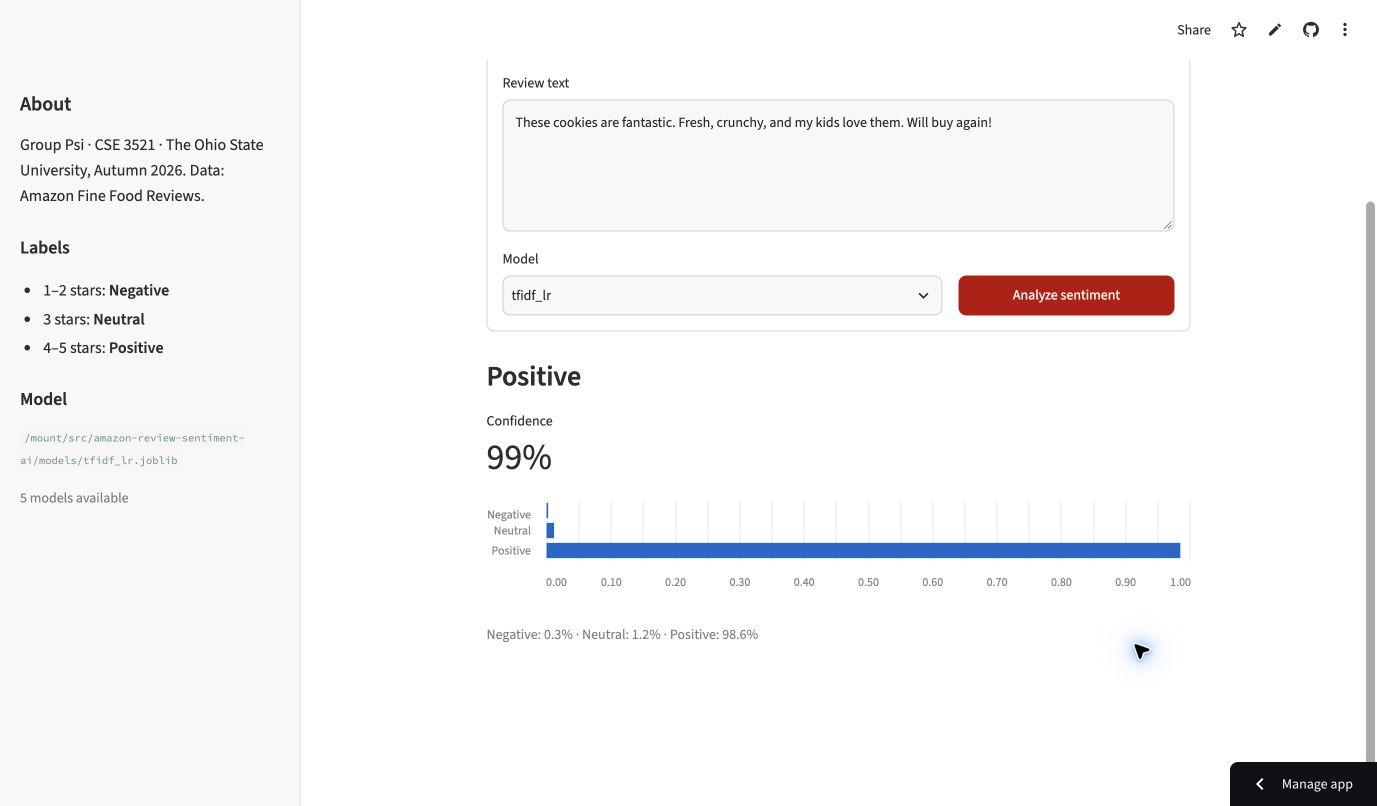
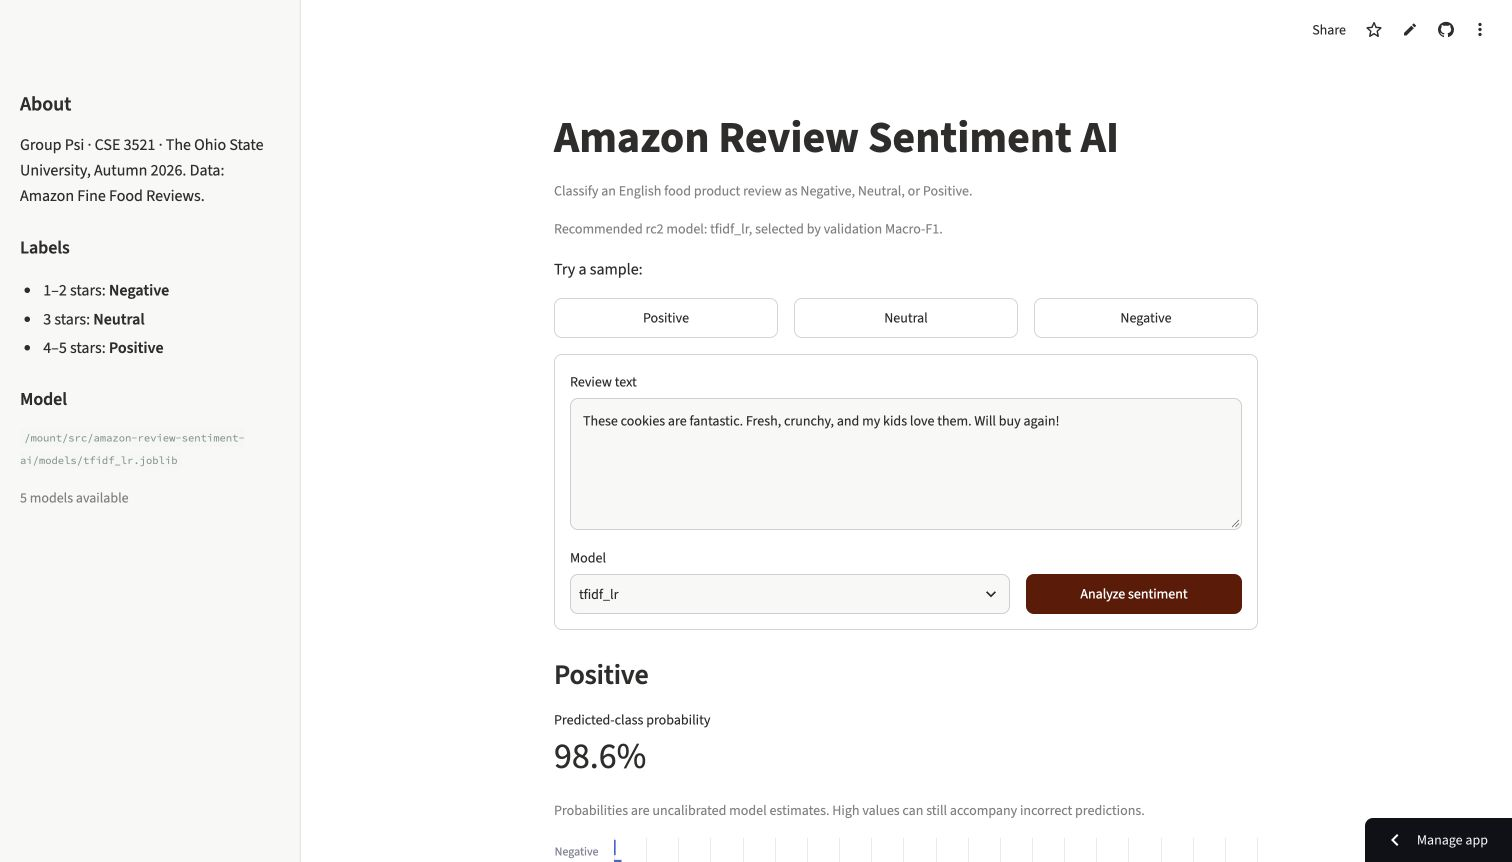
docs: refresh main app screenshots and verification status

diff --git a/docs/M3_RESULTS.md b/docs/M3_RESULTS.md
@@ -1,6 +1,7 @@
 # M3 report and demonstration — canonical release v0.2.0-rc2
 
-Updated November 23, 2026. This replaces the November 15 M3 experimental results
+Canonical results updated November 23, 2026; main deployment verification updated
+November 24. This replaces the November 15 M3 experimental results
 for report/demo parity. It is not confirmation of final PDF submission. Hosted
 main and staging validation is recorded at the end of this document.
 All current tables, timings, loss records and five model artifacts below belong
@@ -188,6 +189,35 @@ cleaned Text; Summary and rating are not features.
 
 ## Hosted main status
 
+**Latest verification: November 24, 2026 (EST)** after
+[PR #23](https://github.com/its-spark-dev/amazon-review-sentiment-ai/pull/23)
+merged into main at `9a29272`. The app was fully rebooted: automatic code refresh
+had shown the new UI while retaining the previous zero-feature inference
+behavior; the reboot resolved that observed mismatch. No model tag, weights,
+training settings or reported test results changed.
+
+| Hosted check | November 24 result |
+| --- | --- |
+| New-session default | `tfidf_lr`, with the rc2 recommendation visible |
+| Probability display | Predicted-class probability, one decimal, explicit uncalibrated-estimate explanation |
+| Positive/negative probes | 10 passed: two synthetic reviews per model; labels and displayed probabilities match canonical local rc2 |
+| Zero-feature input | 15 passed: emoji-only, Korean and unseen-token probes for each of five models; no label/probability displayed |
+| Recovery after rejection | Five passed: a recognized review produces a result again for each model |
+| Existing validation | Empty and HTML/whitespace-only input rejection passed |
+
+The check covered model switching across all five pipelines. The vocabulary
+guard does not establish language detection, out-of-domain detection or calibrated
+uncertainty. These are serving checks, not new held-out performance estimates.
+The underlying artifacts remain `v0.2.0-rc2`, served on Python 3.11.18.
+
+Current public screenshots: [TF-IDF LR prediction](assets/demo.jpg) and
+[zero-feature input guard](assets/input-guard.jpg). The prediction example shows
+98.6% Positive probability, with the explicit reliability limitation. The detailed
+synthetic check log remains local at `outputs/m3/main-serving-fix/validation.json`;
+it is not required to run the app. Main's post-merge CI passed all six jobs.
+
+### Initial main deployment (November 23)
+
 The [main app](https://amazon-sentiment-ai.streamlit.app/) was deployed from
 `main` after [PR #19](https://github.com/its-spark-dev/amazon-review-sentiment-ai/pull/19)
 passed all six CI checks and merged at `216720c`. Its runtime is Python 3.11.18,
@@ -200,7 +230,8 @@ produced the expected positive/negative labels and displayed probabilities
 matching staging and the canonical local rc2 models. HTML/plain-text parity,
 markup-only rejection, and empty-input rejection also passed. A screenshot of
 the main app's TF-IDF LR positive prediction and the verification log were saved
-locally; neither is committed. These synthetic checks validate deployment and
+locally at that time; the current public captures above supersede that screenshot.
+These synthetic checks validate deployment and
 inference behavior, not new held-out performance results or retraining.
 
 ## Hosted staging status

diff --git a/README.md b/README.md
@@ -25,9 +25,20 @@ This is an educational ML demonstration, with the evaluation limits documented b
 
 ![Live main app showing a TF-IDF LR prediction and three-class probabilities](docs/assets/demo.jpg)
 
-*Actual main deployment, captured November 23, 2026. The model selector serves
-five rc2 pipelines. The capture predates the input/probability UI update;
-example probabilities describe this input, not test accuracy.*
+*Actual main deployment, captured November 24, 2026 after PR #23 and a full
+reboot. TF-IDF LR is the initial selection; probabilities are explicitly labeled
+as uncalibrated estimates. This example's 98.6% is not test accuracy.*
+
+<details>
+<summary>Input guard example</summary>
+
+![Main app withholding a prediction for an emoji-only input with no recognized vocabulary](docs/assets/input-guard.jpg)
+
+*The selected model recognizes no vocabulary features, so the app shows an
+explanation and withholds the label and probabilities. This is a vocabulary
+check, not language or out-of-domain detection.*
+
+</details>
 
 ## What is implemented
 
@@ -176,11 +187,22 @@ work, including the separately reviewed [error-analysis PR #21](https://github.c
 | [Main demo](https://amazon-sentiment-ai.streamlit.app/) | `main` | 3.11.18 | `v0.2.0-rc2` |
 | [Staging](https://amazon-sentiment-ai-preview.streamlit.app/) | `staging` | 3.14 | `v0.2.0-rc2` |
 
-Both deployments were rebooted and passed 14 synthetic hosted checks each on
-November 23, 2026: model switching, positive/negative predictions, preprocessing
-parity and invalid-input handling. These dated checks are not an uptime guarantee.
-Main predictions matched the canonical local models. Configure the model tag
-separately in each app's Streamlit secrets editor; branch merges do not transfer it.
+**Main verified November 24, 2026** after
+[PR #23](https://github.com/its-spark-dev/amazon-review-sentiment-ai/pull/23)
+merged at `9a29272` and the app was fully rebooted. A new session selected
+`tfidf_lr`; the probability label, one-decimal display and uncalibrated-estimate
+explanation were visible. Across all five models, 10 positive/negative predictions
+matched canonical rc2 labels and displayed probabilities, 15 zero-feature probes
+were withheld, and five valid-input recoveries passed. Empty and markup-only
+input checks also passed. [Deployment verification details](docs/M3_RESULTS.md#hosted-main-status)
+
+Staging's last recorded verification remains **November 23**: 14 hosted checks
+with rc2. The November 24 serving update was verified on main only. These dated
+checks are not an uptime guarantee or new model-performance measurements.
+Configure the model tag separately in each app's Streamlit secrets editor;
+branch merges do not transfer it. After serving-module changes, reboot and
+verify behavior; automatic code refresh initially retained the old inference
+behavior during this deployment.
 Never commit `.env` or `.streamlit/secrets.toml`.
 
 ## Course and project status

diff --git a/docs/PORTFOLIO_READINESS.md b/docs/PORTFOLIO_READINESS.md
@@ -5,12 +5,17 @@ presentation and evidence audit, not a new experiment or a claim of defect-free
 software. The original [PR #22](https://github.com/its-spark-dev/amazon-review-sentiment-ai/pull/22)
 changed documentation and a verified demo screenshot only and is now merged.
 
-**Serving follow-up, November 24:** this branch implements the zero-feature guard,
+**Serving follow-up, November 24:** [PR #23](https://github.com/its-spark-dev/amazon-review-sentiment-ai/pull/23)
+merged at `9a29272` and implements the zero-feature guard,
 TF-IDF LR initial selection and explicit uncalibrated-probability wording from
 items 2–3 below. Synthetic regression tests cover rejection, recovery, unchanged
 supported predictions and preserved user choices. The original observations below
-remain dated audit evidence; these code changes do not claim a hosted deployment
-check or alter rc2 artifacts, preprocessing, selection, metrics or model weights.
+remain dated audit evidence. Main was then rebooted and
+[verified live](M3_RESULTS.md#hosted-main-status): initial selection/probability
+wording, 10 matching rc2 predictions, 15 rejected zero-feature inputs, five
+recoveries and two existing validation checks. Staging was not reverified.
+The serving changes do not alter rc2 artifacts, preprocessing, model-selection
+protocol, metrics or model weights.
 
 ## Conclusion
 
@@ -198,14 +203,15 @@ social-preview, description/homepage and access settings were not modified here.
 
 ## Review and publication checks
 
-Before sharing the portfolio link, review the serving follow-up and PR #21
-separately, keep model/metric claims tied to rc2, and confirm the demo is reachable
+Before sharing the portfolio link, review PR #21 separately, keep model/metric
+claims tied to rc2, and confirm the demo is reachable
 at the time of sharing. Keep M3 PDF updating and the M4 report/presentation as
 course tasks; a polished README cannot stand in for their submission. For any
 future serving fix, repeat model selection/prediction and error-path checks.
 
-The screenshot added here is the team's genuine main-app capture from the
-November 23 deployment verification. No third-party photos, logos, reviewer
+The README screenshots are genuine main-app captures from the
+November 24 deployment verification, replacing the original November 23 image.
+No third-party photos, logos, reviewer
 identifiers or invented outputs were added. Image access and readable captions
 matter more than decorative badges.
 
